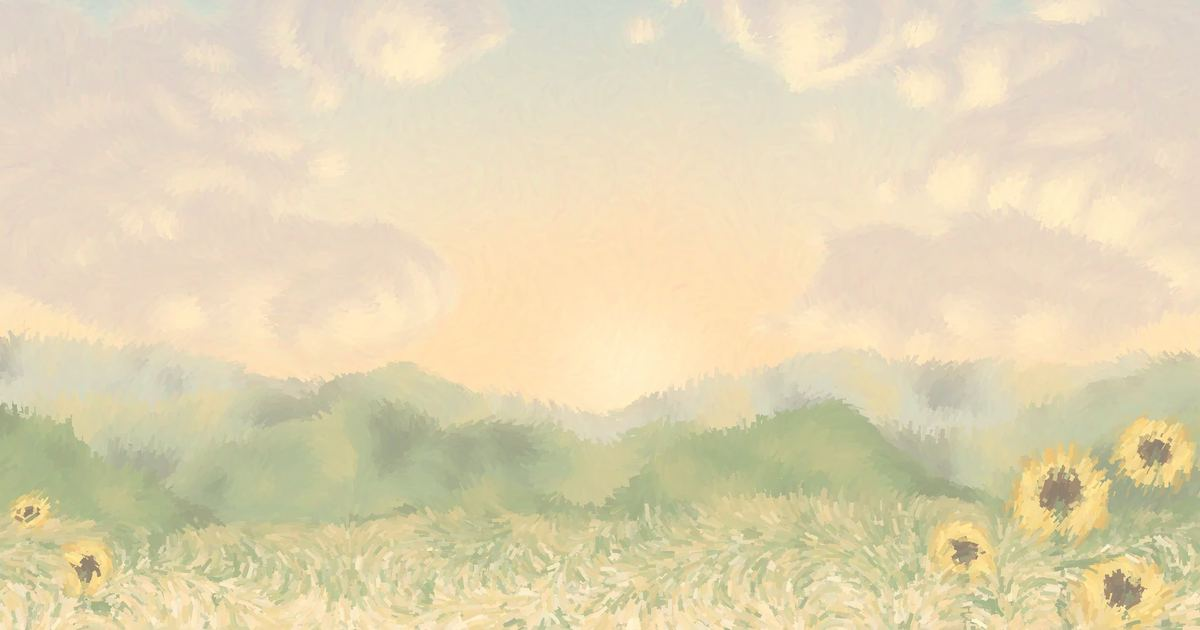
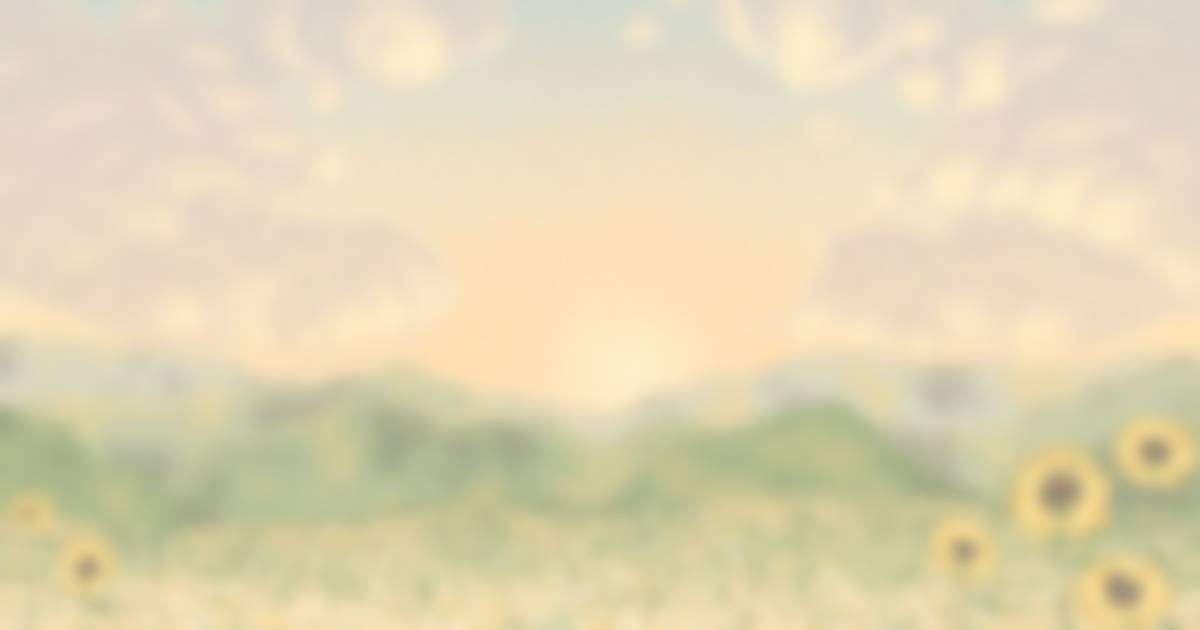
fix: keep job preview images small enough for WhatsApp

diff --git a/functions/api/og/job/[id].js b/functions/api/og/job/[id].js
@@ -40,7 +40,7 @@ export function jobCardHtml(job, origin) {
 export async function onRequestGet({ params, request, waitUntil }) {
   const id = String(params.id || '').replace(/\.png$/, '');
   const cache = typeof caches !== 'undefined' ? caches.default : null;
-  const key = new Request(new URL(request.url).origin + `/api/og/job/${encodeURIComponent(id)}`);
+  const key = new Request(new URL(request.url).origin + `/api/og/job/v2/${encodeURIComponent(id)}`);
   const hit = await cache?.match(key);
   if (hit) return hit;
   try {
